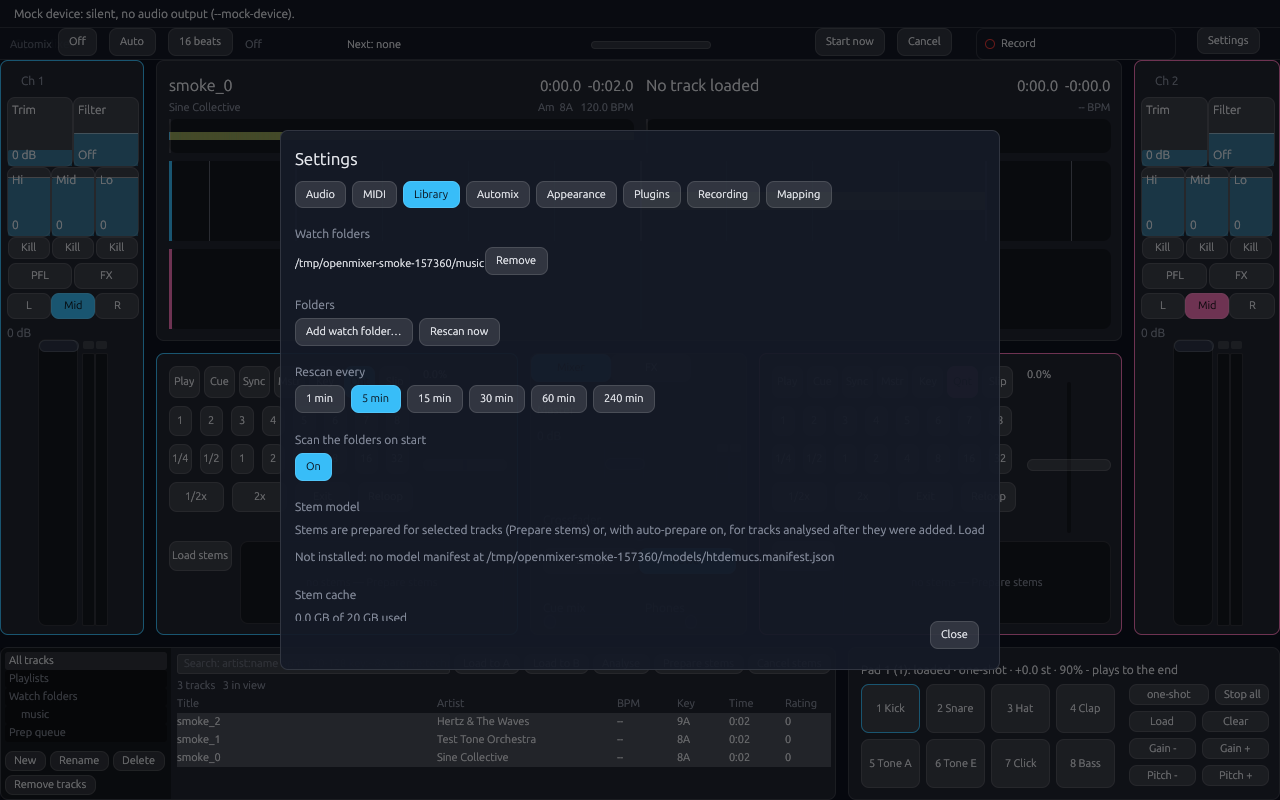
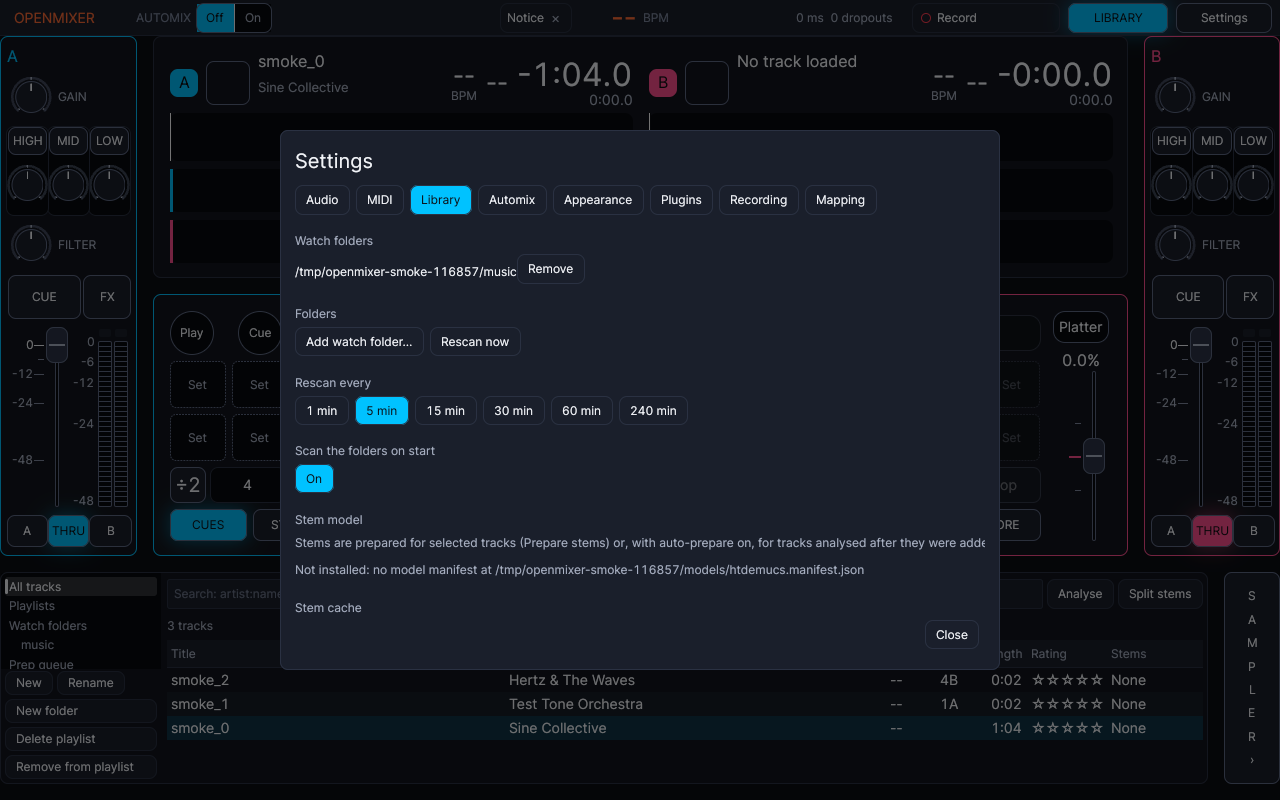
docs: recapture all screenshots from the redesigned UI (knobs, new header); replace sampler-* with sampler-open-*

diff --git a/docs/screenshots/REVIEW.md b/docs/screenshots/REVIEW.md
@@ -42,7 +42,7 @@ Remaining observations (not fixed):
 
 ## Sampler strip (Wave 7 P4, 2026-10-20)
 
-The sampler strip sits in the library band, right of the library, in every main-window scene. `--demo-library` loads eight generated samples so the pads are full. Two captures were checked by eye (`sampler-dark.png` and `sampler-daylight.png` beside this file): pad names, the caption, the mode and gain/pitch controls all fit and read at 1280x800, the selected pad carries the accent border, and daylight contrast is fine.
+The sampler strip sits in the library band, right of the library, in every main-window scene. `--demo-library` loads eight generated samples so the pads are full. Two captures were checked by eye (`sampler-dark.png` and `sampler-daylight.png`, recaptured on 2026-10-27 as `sampler-open-dark.png` and `sampler-open-daylight.png`, beside this file): pad names, the caption, the mode and gain/pitch controls all fit and read at 1280x800, the selected pad carries the accent border, and daylight contrast is fine.
 
 | Item | Status | Notes |
 |------|--------|-------|
